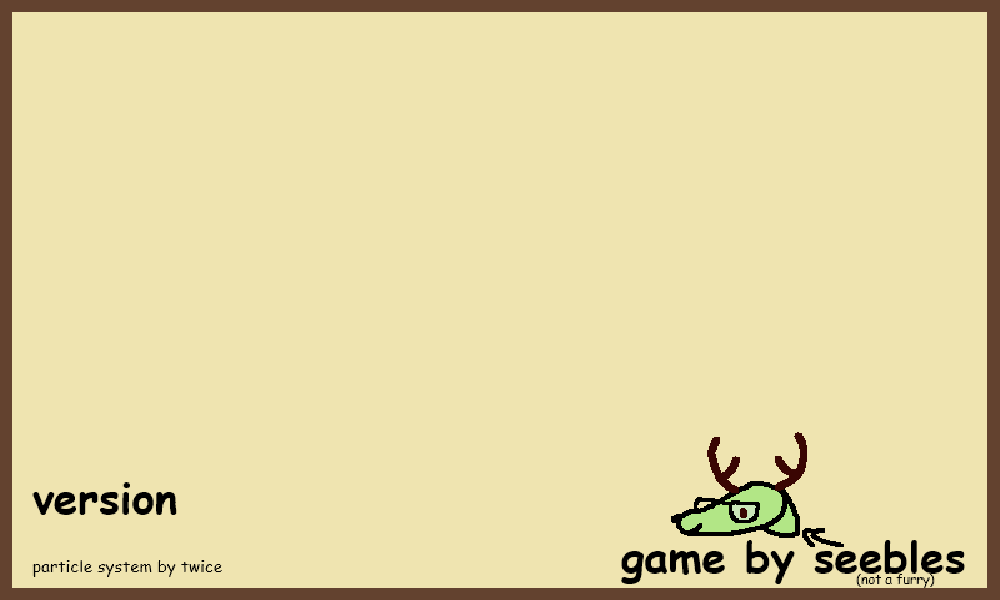
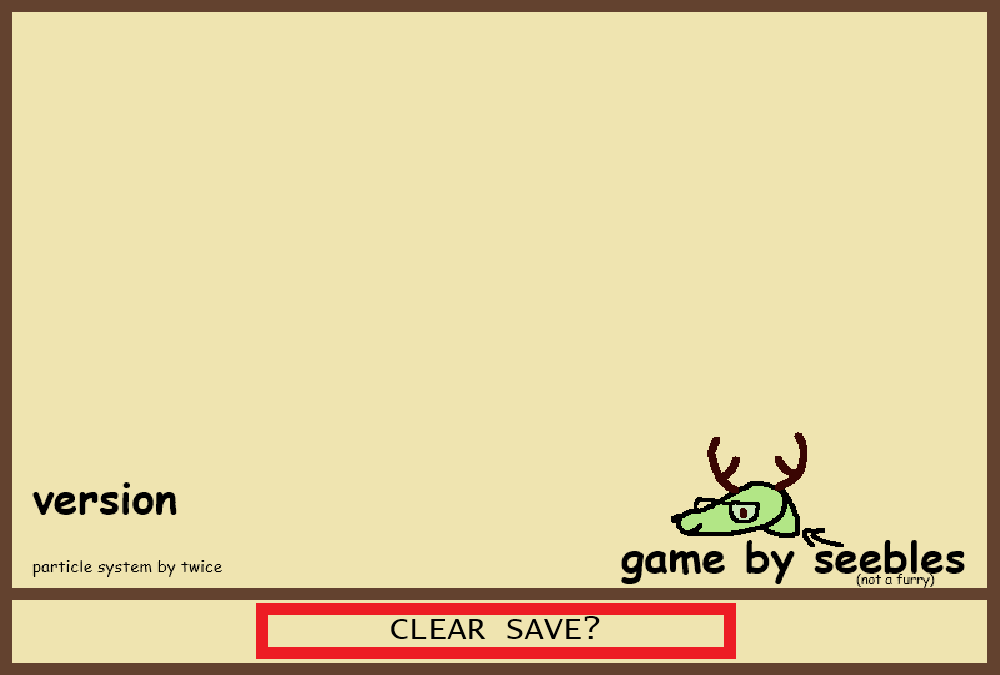
added save file wiping

Changed region(s): [[0.0, 0.63, 0.992, 0.99], [0.031, 0.0, 0.961, 0.03], [0.031, 0.72, 0.186, 0.78]]

diff --git a/main.py b/main.py
@@ -1,4 +1,4 @@
-gameVersion = "1.1.1"
+gameVersion = "1.1.2"
 
 
 import pickle
@@ -21,37 +21,39 @@ from fishes import Fishes
 # from pygame import mixer
 Music.init()
 
-close = pygame.image.load('resources/close.png').convert_alpha()
-yes = pygame.image.load('resources/yes.png').convert_alpha()
+
 
 doExit = False
 clock = pygame.time.Clock()
 
-# defaultImg = pygame.image.load("default.png")
+close = pygame.image.load('resources/close.png').convert_alpha()
+yes = pygame.image.load('resources/yes.png').convert_alpha()
+cornerX = Rect(20,20,65,65)
+
 interactImg = pygame.image.load("resources/interact.png").convert_alpha()
 bgImage 	= pygame.image.load("resources/grass5.png").convert()
 
 shopImg		= pygame.image.load("resources/shop1.png").convert_alpha()
-titleImg	= pygame.image.load("resources/title.png")
+titleImg	= pygame.image.load("resources/title.png").convert()
 
-invImg		= pygame.image.load("resources/sack.png")
-statsImg	= pygame.image.load("resources/stats.png")
-settingImg 	= pygame.image.load("resources/settings.png")
-menuImg 	= pygame.image.load("resources/menuBG.png")
-invBgImg	= pygame.image.load("resources/menuBG2.png")
-setMenuImg	= pygame.image.load('resources/menuBG_lazy.png')
+invImg		= pygame.image.load("resources/sack.png").convert()
+statsImg	= pygame.image.load("resources/stats.png").convert()
+settingImg 	= pygame.image.load("resources/settings.png").convert()
+menuImg 	= pygame.image.load("resources/menuBG.png").convert()
+invBgImg	= pygame.image.load("resources/menuBG2.png").convert()
+setMenuImg	= pygame.image.load('resources/menuBG_lazy.png').convert()
 menuRect	= Rect(400,200,800,500)
-menuRect2	= Rect(300,150,1000,600)
+menuRect2	= Rect(300,50,1000,600)
 unmuted		= pygame.image.load("resources/unmuted.png").convert_alpha()
 muted		= pygame.image.load("resources/muted.png").convert_alpha()
-muteRect	= Rect(870,240,260,260)
-quitButton	= pygame.image.load("resources/close_game.png")
-quitRect	= Rect(360,240,480,260)
+muteRect	= Rect(870,140,260,260)
+quitButton	= pygame.image.load("resources/close_game.png").convert()
+quitRect	= Rect(360,140,480,260)
 
 shop = Music.Sound('resources/elevator.mp3')
 waves = Music.Sound('resources/waves.wav')
-
 Music.music.load('resources/thejazzpiano.mp3')
+isMuted = False
 
 font = pygame.font.Font(None, 52)
 fontBig = pygame.font.Font(None, 80)
@@ -73,7 +75,6 @@ def doNothing():
 
 
 titlepage = True
-Music.Sound.play(waves,-1)
 Music.Sound.play(waves,-1)
 Music.Sound.play(waves,-1)
 while titlepage:
@@ -140,27 +141,51 @@ while not doExit:
 			pressDown = True
 			
 	if gamestate == "quit":
-		pygame.draw.rect(screen,(255,255,255),(400,200,800,500))
+		pygame.draw.rect(screen,(239,228,176),(400,200,800,600))
+		pygame.draw.rect(screen,(0,0,0),(400,200,800,600),20)
 		quitText = font.render("Would you like to quit?",1,(235,0,0),(239,228,176))
 		temp1 = quitText.get_rect()
 		temp1.center = SCREEN_RECT.center
+		quitText2 = font.render("All the fish in your inventory will be sold",1,(0,0,0))
 		temp2 = close.get_rect()
 		temp3 = temp2.copy()
 		temp2.center = (SCREEN_RECT.centerx-200,SCREEN_RECT.centery+100)
 		temp3.center = (SCREEN_RECT.centerx+200,SCREEN_RECT.centery+100)
-		screen.blit(quitText,temp1)
+		screen.blit(quitText,(temp1.x,temp1.y-60))
+		screen.blit(quitText2,(temp1.x-150,temp1.y))
 		screen.blit(close,temp2)
 		screen.blit(yes,temp3)
 		if ct.clickInteract(temp2):
 			gamestate = "main"
 			quitTick = 0
+			pygame.mouse.set_pos(800,500)
 		if ct.clickInteract(temp3):
 			doExit = True
 	if quitTick >=2:
 		doExit = True
-
-
 	
+	if gamestate == "wipe":
+		pygame.draw.rect(screen,(239,228,176),(400,200,800,600))
+		pygame.draw.rect(screen,(0,0,0),(400,200,800,600),20)
+		quitText = font.render("Are you sure you want to wipe your save?",1,(235,0,0),(239,228,176))
+		temp1 = quitText.get_rect()
+		temp1.center = SCREEN_RECT.center
+		quitText2 = font.render("Consider deeply, brainiac",1,(0,0,0))
+		temp2 = close.get_rect()
+		temp3 = temp2.copy()
+		temp2.center = (SCREEN_RECT.centerx-200,SCREEN_RECT.centery+100)
+		temp3.center = (SCREEN_RECT.centerx+200,SCREEN_RECT.centery+100)
+		screen.blit(quitText,(temp1.x,temp1.y-60))
+		screen.blit(quitText2,(temp1.x+120,temp1.y))
+		screen.blit(close,temp2)
+		screen.blit(yes,temp3)
+		if ct.clickInteract(temp2):
+			gamestate = "main"
+			quitTick = 0
+			pygame.mouse.set_pos(800,500)
+		if ct.clickInteract(temp3):
+			open("playersave.txt", "w").close()
+			quit()
 
 	#-------------------------------------- MAIN ----------------------------------------
 	if gamestate == "main":
@@ -259,29 +284,31 @@ while not doExit:
 	#-------------------- selling -------------------
 	elif gamestate == "selling":
 		screen.blit(invBgImg,(0,0))
-		temp5 = [100,1]
 		screen.blit(close, (20,20))
-		temp6 = 0
-		while temp6 < len(guy.inventory):
-			guy.inventory[temp6].invDisplay(screen,temp5)
-			if temp5[0] < 1300:
-				temp5[0]+=200
-			else: 
-				temp5[0] = 1
-				temp5[1] += 120
-			market.drawButtons(screen)
-			if ct.clickInteract(guy.inventory[temp6].invImgRect, pressDown):
-				market.selling(True)
-				sellwhat = temp6
-			if market.isSelling and ct.clickInteract(market.sharedRect, pressDown):
-				guy.money+=guy.inventory[sellwhat].price
-				guy.inventory.pop(sellwhat)
-				market.selling(False)
-				sellwhat = 0
-				temp6=-1
-			temp6+=1
+		if len(guy.inventory)>0:
+			temp5 = [100,1]
+			temp6 = 0
+			while temp6 < len(guy.inventory):
+				guy.inventory[temp6].invDisplay(screen,temp5)
+				if temp5[0] < 1300:
+					temp5[0]+=200
+				else: 
+					temp5[0] = 1
+					temp5[1] += 120
+				market.drawButtons(screen)
+				if ct.clickInteract(guy.inventory[temp6].invImgRect, pressDown):
+					market.selling(True)
+					sellwhat = temp6
+				if market.isSelling and ct.clickInteract(market.sharedRect, pressDown):
+					guy.money+=guy.inventory[sellwhat].price
+					guy.inventory.pop(sellwhat)
+					market.selling(False)
+					sellwhat = 0
+					temp6=-1
+				temp6+=1
+				ct.customCursor(screen)
 
-		if get_pressed()[pygame.K_ESCAPE] or ct.clickInteract(Rect(20,20,65,65)):
+		if get_pressed()[pygame.K_ESCAPE] or ct.clickInteract(cornerX):
 			market.select(True)
 			gamestate = "market"	
 	else:
@@ -297,6 +324,8 @@ while not doExit:
 				guy.inventory[temp6].toggleBigView(False)
 			newest = len(guy.inventory)-1
 			gamestate = "sub-inventory1"
+		else:
+			gamestate = "main"
 
 	#-------------------------------------- INVENTORY ----------------------------------------
 	if gamestate == "sub-inventory1":
@@ -320,19 +349,21 @@ while not doExit:
 			gamestate = "inventory"
 	if gamestate == "inventory":
 		screen.blit(invBgImg,(0,0))
-		temp5 = [100,1]
 		screen.blit(close, (20,20))
-		for temp6 in range(len(guy.inventory)):
-			guy.inventory[temp6].invDisplay(screen,temp5)
-			if temp5[0] < 1300:
-				temp5[0]+=200
-			else: 
-				temp5[0] = 1
-				temp5[1] += 120
-			if tutorials[0] == True:
-				if ct.clickInteract(guy.inventory[temp6].invImgRect, True, lambda: guy.inventory[temp6].toggleBigView(True)):
-					newest = temp6
-					gamestate = "sub-inventory2"
+		if len(guy.inventory) > 0:
+			temp5 = [100,1]
+			for temp6 in range(len(guy.inventory)):
+				guy.inventory[temp6].invDisplay(screen,temp5)
+				if temp5[0] < 1300:
+					temp5[0]+=200
+				else: 
+					temp5[0] = 1
+					temp5[1] += 120
+				if tutorials[0] == True:
+					if ct.clickInteract(guy.inventory[temp6].invImgRect, True, lambda: guy.inventory[temp6].toggleBigView(True)):
+						newest = temp6
+						gamestate = "sub-inventory2"
+				ct.customCursor(screen)
 		if get_pressed()[pygame.K_ESCAPE] or ct.clickInteract(Rect(20,20,65,65)):
 			gamestate = "main"
 		if tutorials[0] == False:
@@ -351,24 +382,41 @@ while not doExit:
 		version = fontBig.render(gameVersion,1,(0,0,0))
 
 		screen.blit(setMenuImg,menuRect2)
-		screen.blit(close,(1180,200))
-		screen.blit(version,(490,625))
-		screen.blit(unmuted,muteRect)
+		screen.blit(close,(1180,100))
+		screen.blit(version,(490,525))
 		screen.blit(quitButton,quitRect)
+		if isMuted:
+			screen.blit(muted,muteRect)
+		else:
+			screen.blit(unmuted,muteRect)
 
 
-		if 2+2 != 4:
+		if ct.clickInteract(muteRect,pressDown) and isMuted == False:
 			Music.Sound.set_volume(shop,0)
 			Music.music.set_volume(0)
 			mute(True)
-		elif 1+1 == 3:
-			mute(False)	
-		if ct.clickInteract(Rect(1180,200,60,60)) or get_pressed()[pygame.K_ESCAPE]:
+			isMuted = True
+		elif ct.clickInteract(muteRect,pressDown) and isMuted:
+			Music.Sound.set_volume(shop,1)
+			Music.music.set_volume(0.7)
+			mute(False)
+			isMuted = False
+		
+		if ct.clickInteract(Rect(555,655,480,56)):
+			gamestate = "wipe"
+
+
+		if ct.clickInteract(quitRect,pressDown):
+			gamestate = "quit"
+
+		if ct.clickInteract(Rect(1180,100,60,60)) or get_pressed()[pygame.K_ESCAPE]:
 			gamestate = "main"
 
 	ct.customCursor(screen)
 	ct.canClick = False
 	pygame.display.flip()
+
+
 
 for temp6 in range(len(guy.inventory)):
 	guy.money+=guy.inventory[temp6].price
@@ -377,5 +425,6 @@ guy.inventory.clear()
 savestate = guy.saveData()
 with open('playersave.txt','wb') as store_file:
 	pickle.dump(savestate,store_file)
+store_file.close()
 
 pygame.quit()

diff --git a/interactables.py b/interactables.py
@@ -45,17 +45,20 @@ class FishingHole:
 			fish.append(prompt)
 			letterData.append([font.render(prompt,1,WHITE), int((640//length) + i * ((SCREEN_RECT.w - 100) // length)), SCREEN_RECT.centery, prompt])
 
+			alert = font.render("PRESS THE KEYS! CATCH THE FISH!",1,(255,255,255))
+			screen.blit(alert,(100,200))
+
 			screen.blit(letterData[i][0],(letterData[i][1],letterData[i][2]))
 			
 		for j in range(length):
-			IPUT = 'void'
+			finput = 'void'
 			while True:
 				maxtime = length*1.8
 				for event in pygame.event.get():
 					if event.type == pygame.QUIT:
 						doExit = True
 
-				IPUT = self.inputs()
+				finput = self.inputs()
 
 				timer += delta/10
 
@@ -64,18 +67,20 @@ class FishingHole:
 
 				pygame.display.flip()
 
-				if IPUT == letterData[j][-1]:
+				if timer >= maxtime:
+					fail = True
+					break
+
+				if finput == letterData[j][-1]:
 					letterData[j][0] = font.render(letterData[j][-1],1,GREEN)
 					screen.blit(letterData[j][0],(letterData[j][1],letterData[j][2]))
 					correct.play()
 					break
-				if timer >= maxtime:
-					fail = True
-					break
+				
 			if fail:
 				break
 
-			player.append(IPUT)
+			player.append(finput)
 		if fail:
 			return False	
 		if player == fish:
@@ -204,7 +209,7 @@ class SellStation:
 		# self.bagPrice = [180, "SOLD OUT",1440,720,360]
 
 		self.baitImg = pygame.image.load("resources/bait.png")
-		self.baitPrice = 10
+		self.baitPrice = 20
 		self.baitDesc = [
 			"buy some bait",
 			"catch fish (maybe)",

diff --git a/player.py b/player.py
@@ -29,8 +29,8 @@ class Player:
 		self.handAngle: float
 		#stats
 		self.inventory = []
-		self.money = 10
-		self.bait = 5
+		self.money = 20
+		self.bait = 4
 		#upgrade variables
 		self.chance = 0 # add 3
 		self.bagsize = 3 # add 3
